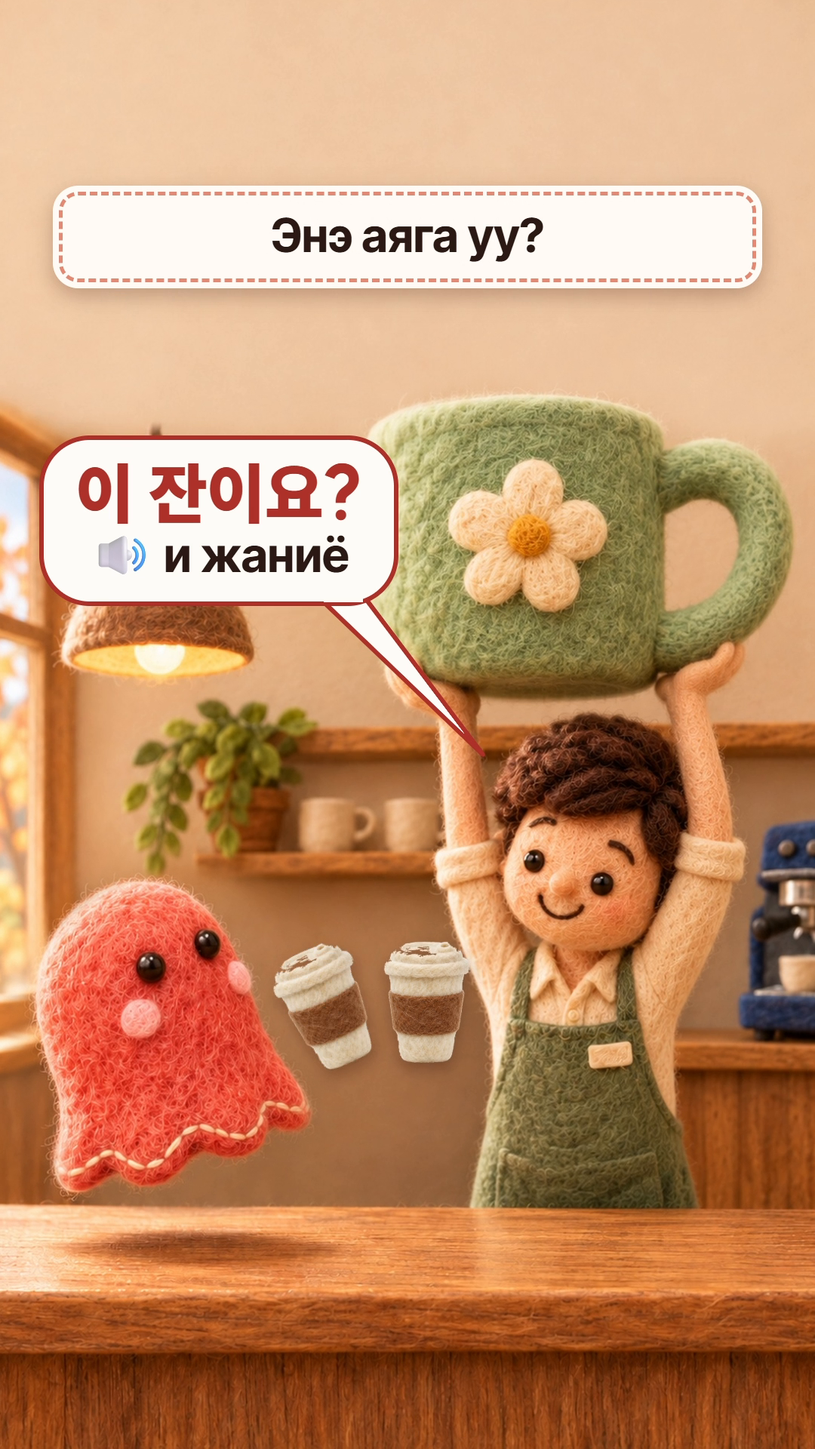
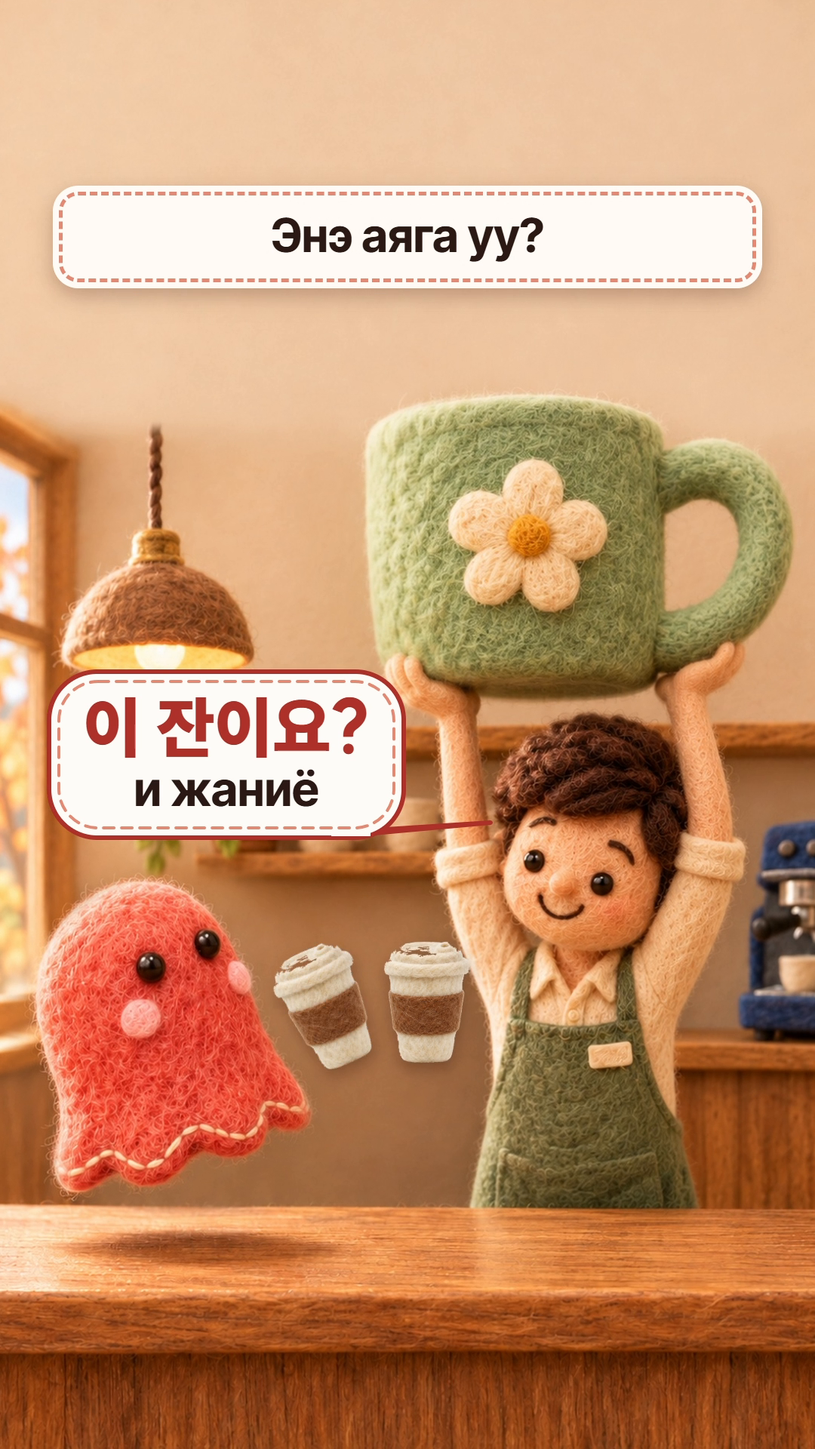
feat(LAB M33 「아메리카노 이 잔 주세요」 · 11-08 15시): 11-12(목) 몽골 편 완성(관문 못 넘음) · 작업실 등록 — 장면 심사 v2 통과 · 이해 4·3·4·4 · 넷 다 달라 보임 · 몽골어 세 겹(Fable 그대로 올림) · 올리기 전 검사 고칠 것 0 · 아르곤 맹검 못 받음(보낸 글 사라짐) → Fable 대체 v10 기각 없음

Changed region(s): [[0.0306, 0.2812, 0.5806, 0.5938]]

diff --git a/docs/마케팅/LAB_이잔주세요_mn_20261108/remotion/src/m33/Film.tsx b/docs/마케팅/LAB_이잔주세요_mn_20261108/remotion/src/m33/Film.tsx
@@ -110,7 +110,7 @@ const Think: React.FC<{ t: number }> = ({ t }) => {
       </svg>
       <div style={{ position: 'absolute', left: 820, top: 540, transform: 'translate(-50%, -50%)', background: C.cream, borderRadius: 80, padding: '18px 44px 22px', border: `6px dashed ${C.shade}`, display: 'flex', flexDirection: 'column', alignItems: 'center', boxShadow: '0 10px 24px rgba(50,20,10,0.3)' }}>
         <span style={{ fontFamily: KO, fontWeight: 900, fontSize: 84, lineHeight: 1.05, color: C.shade, whiteSpace: 'nowrap' }}>{SAY.think.ko}</span>
-        <span style={{ fontFamily: MN, fontWeight: 700, fontSize: 58, lineHeight: 1.15, color: C.brown, whiteSpace: 'nowrap' }}>🔊 {SAY.think.read}</span>
+        <span style={{ fontFamily: MN, fontWeight: 700, fontSize: 58, lineHeight: 1.15, color: C.brown, whiteSpace: 'nowrap' }}>{SAY.think.read}</span>
       </div>
     </div>
   );
@@ -160,6 +160,8 @@ const Bubble: React.FC<{ t: number; from: number; until: number; x: number; y: n
         <path d={`M ${bx - 30} ${by} L ${tail[0]} ${tail[1]} L ${bx + 30} ${by} Z`} fill={C.cream} stroke={C.shade} strokeWidth={6} strokeLinejoin="round" />
         <rect x={left} y={top} width={w} height={h} rx={Math.min(64, h / 2)} fill={C.cream} stroke={C.shade} strokeWidth={6} />
         <rect x={bx - 26} y={by - 8} width={52} height={12} fill={C.cream} />
+        {/* 안쪽 바늘땀 — 위 띠 · 이름표와 같은 천 조각 결(미학 대체 심사 「틀 세 가지가 섞임」) */}
+        <rect x={left + 13} y={top + 13} width={w - 26} height={h - 26} rx={Math.min(52, h / 2 - 13)} fill="none" stroke={C.stitch} strokeWidth={4} strokeDasharray="14 10" strokeLinecap="round" />
       </svg>
       <div style={{ position: 'absolute', left, top, width: w, height: h, display: 'flex', flexDirection: 'column', alignItems: 'center', justifyContent: 'center', textAlign: 'center' }}>
         {/* 한국어 줄마다 바로 아래 키릴 읽기(시험관 둘이 「읽기 글씨가 작아 끝을 못 읽음」 — 크게, 줄마다 짝지어) */}
@@ -169,7 +171,7 @@ const Bubble: React.FC<{ t: number; from: number; until: number; x: number; y: n
           return (
             <React.Fragment key={ko}>
               <div style={{ fontFamily: KO, fontWeight: 900, fontSize: size, lineHeight: 1.04, color: C.shade, whiteSpace: 'pre' }}>{ko}</div>
-              {read ? <div style={{ fontFamily: MN, fontWeight: 700, fontSize: size * 0.72, lineHeight: 1.12, color: C.brown, marginBottom: i < all.length - 1 ? 6 : 0, whiteSpace: 'nowrap' }}>{i === 0 ? '🔊 ' : ''}{read}</div> : null}
+              {read ? <div style={{ fontFamily: MN, fontWeight: 700, fontSize: size * 0.72, lineHeight: 1.12, color: C.brown, marginBottom: i < all.length - 1 ? 6 : 0, whiteSpace: 'nowrap' }}>{read}</div> : null}
             </React.Fragment>
           );
         })}
@@ -211,9 +213,6 @@ const Menu: React.FC<{ t: number }> = ({ t }) => {
   const glow = t >= T.two ? interpolate(t, [T.two, T.two + 0.12, T.two + 0.6], [0, 1, 0.45], clamp) : 0;
   return (
     <>
-      {t >= T.two ? (
-        <div style={{ position: 'absolute', left: 92, top: 1004, width: 900, height: 252, borderRadius: 30, border: `7px dashed ${C.butter}`, boxShadow: `0 0 ${40 * glow}px rgba(255,231,161,${0.8 * glow})`, opacity: fadeIn(t, T.two, 0.12) }} />
-      ) : null}
       {MENU.map((m, i) => {
         const r = ROWS[i];
         if (t < r.at) return null;
@@ -221,8 +220,8 @@ const Menu: React.FC<{ t: number }> = ({ t }) => {
         const hot = i === 1 && t >= T.two;
         return (
           <div key={m.ko} style={{ position: 'absolute', left: r.x, top: r.y, transform: `translateY(-50%) scale(${a * (hot ? 1 + 0.16 * glow : 1)})`, transformOrigin: 'left center' }}>
-            <div style={{ fontFamily: KO, fontWeight: 900, fontSize: 122, lineHeight: 1.0, color: hot ? C.butter : C.cream, whiteSpace: 'nowrap' }}>{m.ko}</div>
-            <div style={{ fontFamily: MN, fontWeight: 700, fontSize: 64, lineHeight: 1.2, color: '#E9D9C4', marginTop: 8, whiteSpace: 'nowrap' }}>🔊 {m.read}</div>
+            <div style={{ fontFamily: KO, fontWeight: 900, fontSize: 122, lineHeight: 1.0, color: hot ? C.butter : C.cream, whiteSpace: 'nowrap', textShadow: hot ? `0 0 ${28 * glow}px rgba(255,231,161,${0.9 * glow})` : 'none' }}>{m.ko}</div>
+            <div style={{ fontFamily: MN, fontWeight: 700, fontSize: 64, lineHeight: 1.2, color: '#E9D9C4', marginTop: 8, whiteSpace: 'nowrap' }}>{m.read}</div>
           </div>
         );
       })}
@@ -301,7 +300,7 @@ export const Film: React.FC<{ scene?: boolean }> = ({ scene = false }) => {
         <Badge t={t} />
         {scene ? null : (
           <>
-            <Tag t={t} at={T.lift + 0.6} until={T.menu} x={300} y={1010} to={[700, 690]} ko={TAG.thisCup.ko} mn={TAG.thisCup.mn} size={88} />
+            <Tag t={t} at={T.freeze + 0.35} until={T.menu} x={300} y={1010} to={[700, 690]} ko={TAG.thisCup.ko} mn={TAG.thisCup.mn} size={88} />
             <Tag t={t} at={T.r2 + 0.55} until={T.close} x={560} y={1790} to={[520, 1575]} ko={TAG.twoCups.ko} mn={TAG.twoCups.mn} size={88} color={C.green} />
             <Menu t={t} />
           </>
@@ -309,7 +308,7 @@ export const Film: React.FC<{ scene?: boolean }> = ({ scene = false }) => {
       </Plate>
       <Think t={t} />
       <Bubble t={t} from={T.m1 - 0.1} until={T.look + 0.5} x={330} y={810} w={620} h={360} tail={[240, 1150]} say={SAY.m1} size={80} />
-      <Bubble t={t} from={T.lift + 0.08} until={T.freeze} x={290} y={690} w={470} h={220} tail={[640, 1000]} say={SAY.r1} size={88} />
+      <Bubble t={t} from={T.lift + 0.08} until={T.freeze} x={300} y={1000} w={470} h={220} tail={[650, 1090]} say={SAY.r1} size={88} />
       {scene ? null : (
         <>
           <Bubble t={t} from={T.retry + 0.05} until={T.r2} x={330} y={810} w={620} h={360} tail={[230, 1150]} say={SAY.m2} size={80} />

diff --git a/docs/마케팅/LAB_이잔주세요_mn_20261108/remotion/src/m33/data.ts b/docs/마케팅/LAB_이잔주세요_mn_20261108/remotion/src/m33/data.ts
@@ -5,14 +5,14 @@ const NL = String.fromCharCode(10);
 export const TEXT = {
   hook: 'Хоёр аяга кофе авъя гэтэл…',
   r1: 'Энэ аяга уу?',
-  heard: `Ажилтан «이» гэдгийг${NL}«хоёр» биш, «энэ» гэж${NL}ойлгочихлоо 😳`,
+  heard: `Ажилтан «이» гэдгийг${NL}«хоёр» биш, «энэ» гэж${NL}ойлгочихлоо!`,
   menu: `Аяга тоолохдоо: 하나 · 둘 · 셋${NL}«잔» гэдэг үгийн өмнө${NL}→ 한 · 두 · 세 болно`,
   two: '2 аяга = «두 잔»',
   m2: `Хоёр аяга американо${NL}өгнө үү!`,
   r2: 'За, хоёр аяга!',
   m3: 'Энэ аягыг бас өгнө үү!',
   r3: 'За, энэ аягыг бас өгье!',
-  end: `Хоёр аяга — «두 잔»,${NL}энэ аяга — «이 잔» 😉`,
+  end: `Хоёр аяга — «두 잔»,${NL}энэ аяга — «이 잔»`,
 };
 export const SAY = {
   m1: { ko: `아메리카노${NL}이 잔 주세요!`, read: `амэрикано${NL}и жан жусэё` },

diff --git a/docs/마케팅/LAB_이잔주세요_mn_20261108/기획.md b/docs/마케팅/LAB_이잔주세요_mn_20261108/기획.md
@@ -1,4 +1,4 @@
-기획 · LAB · @synk.mn(lab-instagram · lab-facebook · lab-tiktok · lab-telegram) · M33 · 2026-11-08 · 슬롯 2026-11-12(목) 21:00 · 오마주 같은분야 · 권위 · **판정은 아래 「판정」**
+기획 · LAB · @synk.mn(lab-instagram · lab-facebook · lab-tiktok · lab-telegram) · M33 · 2026-11-08 · 슬롯 2026-11-12(목) 21:00 · 오마주 같은분야 · 권위 · **완성(관문 못 넘음 — 아래 「판정」)**
 
 # 「아메리카노 이 잔 주세요」 — 셀 때는 한 · 두 · 세
 
@@ -40,7 +40,7 @@
 | 3 | 5.8–15.8 | 숫자표 + 핵심 낱말 「년」 | 4.2 머그 번쩍 · 4.7 종이컵 떨어짐 · 5.9 얼어붙음 · 8.4 메뉴판 한 잔 · 두 잔 · 세 잔 | 「이 잔이요?」(범수) · Энэ аяга уу? · 짜잔 · 툭툭 · 「한 잔, 두 잔, 세 잔.」(소진) · Аяга тоолохдоо: 하나 · 둘 · 셋 / «잔» гэдэг үгийн өмнө → 한 · 두 · 세 болно |
 | 4 | 15.8–17.9 | 몸짓 강조 | 11.6 「두 잔」 줄이 빛나며 그 줄로 다가감 | 2 аяга = «두 잔» · 딩 |
 | 5 | 17.9–25.6 | 숫자표 되짚음 | 13.1 다시 주문 · 15.0 「네, 두 잔이요!」 · 이름표 「두 잔 / 2 аяга」 · 16.9 몽글이 머그를 올려다봄 「이 잔도 주세요!」 · 「-도 / бас」 | 「아메리카노 두 잔 주세요!」 · Хоёр аяга американо өгнө үү! |
-| 6 | 25.6–32.3 | 예문 한 줄 | 18.8 머그 번쩍 한 번 더(바리스타 · 머그 가까이) 「네, 이 잔도요!」 · 21.2 넓게 · 끝 줄 | За, энэ аягыг бас өгье! · Хоёр аяга — «두 잔», энэ аяга — «이 잔» 😉 |
+| 6 | 25.6–32.3 | 예문 한 줄 | 18.8 머그 번쩍 한 번 더(바리스타 · 머그 가까이) 「네, 이 잔도요!」 · 21.2 넓게 · 끝 줄 | За, энэ аягыг бас өгье! · Хоёр аяга — «두 잔», энэ аяга — «이 잔» |
 | 7 | 32.3–33.4 | 끝(팔로우) | 23.7 다가감 · 반짝 | 딩 |
 
 `오마주.json` 「다르게」: 칸 수 · 박자(원본은 진행자 한 컷의 몸짓이 박자, 우리는 말 없는 인형극이라 사건을 장면으로 보여 칸이 는다). 최종본 나란히: 길이 74% · 첫 2초 0 · 0 · 뼈대 끝 자리 맞음 · 원본 박자 다섯이 같은 순서로 0.6초 안(중앙 어긋남 0.1초).
@@ -59,7 +59,7 @@
 - 그림(GPT 이미지 2.5, `굽기.cjs`, 지시문 `판/*.txt`, 참고 `판/참고/` — 몽글 정본 둘 · E3 바리스타): 주문 판을 기준으로 같은 구도의 머그 · 성공, 머그 판에서 굳음 · 끝을 편집으로 구움, 메뉴판 · 종이컵 조각은 따로(종이컵은 흰 바탕에서 구워 `tools/펠트_흰바탕오리기.py`). 굽기 계정 bake3, 일곱 장 33~116초. 머그 판의 작은 입 자국은 바로 아래 털결로 덮은 판(`판/머그_입지움.png`)을 썼다.
 - 영상: `remotion/`(배 편 틀 · node_modules 연결). 글 정본 `src/m33/data.ts`, 시간표 `src/m33/timeline.ts`, 화면 `src/m33/Film.tsx`(장면 심사판은 `m33-scene`). 종이컵 조각이 실제로 떨어져 튀고, 인물은 같은 판을 타원 가면으로 겹쳐 그 자리만 움직인다(몽글 통통 · 바리스타 고개 · 머그 들썩 · 얼음 떨림).
 - 소리: `소리/만들기.py`로 효과음을 직접 만듦. 한국어 줄은 `음성/계획.json`(받아쓰기로 「이」가 들리는지 확인 — Whisper는 몽글의 「이 잔」을 「2잔」으로 적었다). 들뜬 몽글 세 줄이 올리기 전 검사 「목소리 엉킴」(도윤 35% · 기본음 170Hz)에 걸려 감정 · seed를 바꾼 후보(`음성/후보.json`)를 견주고, 엉킴이 절반인 「보통」 판(19 · 14 · 25%, 가운데 기본음 151Hz)으로 바꿨다.
-- 최종본: `remotion/out/m33_v9.mp4` → 음량 마감 → `게시/01-ig-fb-mn/video.mp4`(−14.5 LUFS · −1.5 dBFS) · 10MB 판 8.53MB · 표지 4.75초(머그 번쩍).
+- 최종본: `remotion/out/m33_v10.mp4` → 음량 마감 → `게시/01-ig-fb-mn/video.mp4`(−14.5 LUFS · −1.5 dBFS) · 10MB 판 8.53MB · 표지 4.75초(머그 번쩍). v8 · v9는 마지막 시험 뒤 글자 크기 · 메뉴판 띠, v10은 미학 대체 심사 뒤 짜임(아래 「미학 맹검」).
 
 ## 몽골어 세 겹(화면 글 · 캡션 · 첫 댓글)
 
@@ -77,14 +77,22 @@
 |---|---|---|---|---|---|---|---|---|
 | v2(첫 렌더, 27.4초) | — | 섞임(이 잔 = 2잔으로 거꾸로 섞음) · 같음 · 같음 · 같음 | 4 · 3 · 4 · 4 | 3 · 3 · 3 · 3 | 끝까지 · 6.4~9.4초 · 12.8초 · 끝까지 | 공유 · 저장 · 저장 · 저장 | 달라 · **같아** · 달라 · 달라 | 메뉴판이 수업 같고 김(G · K · opus) · 「?」 뜻(s · h) · 「이」가 둘인지(s · K) · 하나 · 둘 · 셋과 한 · 두 · 세(G) · ✓✕ · 「= 뜻」 꼬리표가 읽씹과 같은 짜임(h) → v3: 메뉴판 6.6 → 4.7초 · 도장 ✗ · ✓ 뺌 · 「두 잔」 줄만 빛남 · 「?」 대신 생각 풍선 「이 잔…?」 · 「2」 대신 «2 аяга» · 이름표 두 줄 · 얼어붙음 띠에 주어 · 메뉴판 띠 하나→한 · 24.6초로 줄임 |
 | v5(24.6초) | 위 + 몽골어 역번역 · Fable 반영 | 같음 · 뭉뚱그림 · 같음 · 같음 | 4 · 3 · 4 · 4 | 3 · 3 · 3 · **4** | 4.9~8.4초 · 끝까지 · 21.2초 · 끝까지 | 저장 · 저장 · 저장 · **둘 다** | 달라 · 같아(천 띠 · 읽기 줄만) · 달라 · 달라 | 말풍선 아래 키릴 읽기가 작음(h · G · K) · 「도」 뜻(h · G) → v6~v7: 읽기를 한국어 줄마다 아래에 크게 · «-도 / бас» 이름표 · 몽글 목소리 보통 · 메뉴판 · 끝 장면 짜임 나눔 |
-| v7 | 위 | 같음 · 뭉뚱그림 · 같음 · (그록 결과 뒤) | 4 · 3 · 4 · ? | 3 · 3 · 3 · ? | 끝까지 · 끝까지 · 21.2초 · ? | 저장 · 저장 · 저장 · ? | 달라 · **달라** · 달라 · ? | 「-도」 딱지 작음(h · G) · 하나→한 까닭(G, v5 K · v2 G 되풀이) → **시험 뒤** v8 딱지 · 메뉴판 읽기 글자 키움, v9 메뉴판 띠에 «잔» гэдэг үгийн өмнө → 한 · 두 · 세 болно(다시 재지 않음 — 다시 시험 두 번 끝) |
+| v7 | 위 | 같음 · 뭉뚱그림(「이 잔과 두 잔을 어떻게 말하는지」) · 같음 · 같음 | 4 · 3 · 4 · 4 | 3 · 3 · 3 · 3 | 끝까지 · 끝까지 · 21.2초(결과 뒤) · 끝까지 | 저장 · 저장 · 저장 · 저장 | **달라 · 달라 · 달라 · 달라** | 「-도」 딱지 작음(h · G) · 하나→한 까닭(G · K, v5 K · v2 G 되풀이) → **시험 뒤** v8 딱지 · 메뉴판 읽기 글자 키움, v9 메뉴판 띠에 «잔» гэдэг үгийн өмнө → 한 · 두 · 세 болно(다시 재지 않음 — 다시 시험 두 번 끝). 혼자 짚은 것: 0.4~4초 「이 잔」이 2인지 이 컵인지 처음엔 모름(s — 4.3초 반전에서 풀리게 짠 자리), 「주세요」 낱말(K), 위 띠 작음(h) |
 
 볼 이유(v2, opus): **이야기 · 4 · 아님** — 「앞에서 틀린 말을 끝에서 맞는 뜻으로 되살리는 고리」, 약한 자리 9.4~16초 메뉴판(이야기가 멈추고 수업) → v3에서 4.7초로 줄이고 도장 · 표시를 뺌.
 
 ## 미학 맹검
 
-(아르곤 결과 뒤 채움)
+대표 프레임 넷(0.9초 첫 2초 · 4.9초 머그 번쩍 · 12.3초 메뉴판 · 22.6초 끝)을 `node tools/미학맹검.js … --편`(아르곤)으로 보냈다. 아르곤은 이날 다른 세션들의 밀린 맹검으로 16:01부터 올리기 잠금을 기다렸다 — 기다리는 동안 같은 지시문(슬롭 점검표 · 유호님 기준을 붙인 `지시_1.md`)을 Fable에게 대신 보였다(07시 회차와 같은 길).
+
+| 판 | 01 첫 2초 | 02 머그 번쩍 | 03 메뉴판 | 04 끝 | 짚은 것 → 고친 것 |
+|---|---|---|---|---|---|
+| v9 · Fable | 고쳐서 냄 6 | **기각 4** | 고쳐서 냄 6 | 고쳐서 냄 7 | 02: 「이 잔이요?」 꼬리가 머그를 가로지르고 「이 잔」 이름표 실선과 엇갈려 도해처럼 · 같은 말이 말풍선과 이름표에 두 번 · 🔊 기본 이모지 / 03: 노란 점선 강조 상자가 슬라이드 같음 / 04: 띠의 😉 → v10: 말풍선을 몽글 위 머그와 안 겹치는 자리로 · 이름표는 말풍선이 사라진 얼어붙음부터 · 🔊 · 😳 · 😉 뺌 · 강조 상자 빼고 글자만 빛남 · 말풍선 안쪽 바늘땀 |
+| v10 · Fable | 고쳐서 냄 5 | 고쳐서 냄 6 | 고쳐서 냄 6 | 고쳐서 냄 7 | 기각 없음. 남은 약점: 떠 있는 종이컵에 그림자가 없음 · 김이 붓질 연기 · 하트 · 반짝이(구운 그림 안 — 다시 구워야 풀림), 글 상자 셋이 납작한 판(LAB 몽골 띠 · 말풍선 틀), 메뉴판 글이 펠트가 아닌 고딕 · 줄마다 시작 자리가 다름(컵 수에 밀림) |
+| v10 · 아르곤 | **못 받음** | | | | 16:01~17:23 다른 세션 맹검들 뒤로 줄을 서 17:23 보냈으나 「보낸 글이 화면에서 사라지고 새 채팅으로 돌아갔다 — 대화가 안 남았을 수 있다」(11-07 8장 묶음과 같은 증상). 다시 읽기 번호표가 줄 6번째(앞 다섯)라 18:10에 멈추고 준비.json 「맹검못함」에 적음. 대표 프레임 · 보낸 기록은 공용 작업본 `.tmp/미학맹검/LAB_이잔주세요_mn_20261108/`(git 밖) — 다음 회차 · 밀린 맹검이 `node tools/아르곤웹.js 읽기 <작업_1.json>` 또는 다시 맹검 |
+
+강점(Fable): 펠트 재질 · 창빛이 한 결 · 거대 머그를 머리 위로 드는 그림 하나로 개그와 뜻이 동시에 읽힘 · 실물 펠트 컵 1 · 2 · 3으로 세는 메뉴판 · 끝 화면이 네 장 가운데 가장 정물다움.
 
 ## 판정
 
-(그록 v7 · 맹검 결과 뒤 채움)
+**완성(관문 못 넘음 — 11-08, 제작 절차 「매일 한 편」 2).** 올릴 판 v10(`게시/01-ig-fb-mn/video.mp4`, 24.6초). 장면 심사는 v2에서 넘었고(멈춤 · 같은 일 · 답 3이 편 끝과 같은 쪽), 마지막 이해 시험 v7은 답 1 s · G · K 한 문장과 같음 · 이해 4 · 3 · 4 · 4 · 넘김은 모두 결과 뒤 · 저장 넷 · 9번 넷 다 「달라 보임」이었다. 못 넘은 것: ④ 둘이 같이 짚은 「-도」 딱지 작음(h · G)과 「하나→한 까닭」(G · K — v2 · v5부터 되풀이)을 시험 뒤 v8(글자 크기) · v9(메뉴판 띠)로 고쳤으나 다시 시험 두 번을 다 써 다시 재지 않음, ① haiku 답 1이 v5 · v7 모두 뭉뚱그림, ⑤ 재미 3 · 3(sonnet · haiku). v10은 그 뒤 미학 대체 심사(Fable v9 기각 1장)로 짜임만 고친 판이다(말 · 순서 같음). 아르곤 미학 맹검은 못 받았다(위 「미학 맹검」 — 「맹검못함」). 올리기 전 검사 고칠 것 0(확인할 것은 준비.json 남은위험). 아르곤 첫 분석도 돌리지 않았다(위 「원본 1:1」). 두 채널 판 없음(이번 회차 두 채널 줄 빈 칸 없음).

diff --git a/docs/마케팅/기획장부/LAB.md b/docs/마케팅/기획장부/LAB.md
@@ -225,6 +225,6 @@
 
 | 번호 | 기획 | 갈래 | 상태 | 편 폴더 | 근거 · 첫 2초 · 댓글 놀이 · 조건 |
 |---|---|---|---|---|---|
-| M33 | 「아메리카노 이 잔 주세요」 — 「이 잔」은 「이 컵」으로 들린다: 셀 때는 한 · 두 · 세(두 잔) | 오마주 같은분야 · 권위 · 근거 A + B | **제작 중(11-08 15시 회차 · 슬롯 11-12(목) 21:00 — 11-12 몽골 칸이 M30 예비로 비어 07시 회차 메모대로 고름 M33부터)** · 고름(11-07 유호님 「순서대로 진행해」) · 순위 1(11-07 — 슬롯 11-14(토) · 네 계정을 통틀어 가장 끝까지 볼 것 · 끝까지 4 · 재미 4 · 저장 4 · 볼 이유 5 · 같아 보임 아니오 · **만든다** · 관문: 첫 2초 몽골어 훅에 「두 잔 시키려고」가 꼭 들어가야 큰 머그 반전이 읽힘, 핵심 칸은 여섯 가운데 가장 잘 읽힘) | [LAB_이잔주세요_mn_20261108](../LAB_이잔주세요_mn_20261108/기획.md) | **무엇으로 이기나:** 한 장면의 임팩트 — 종이컵 둘을 띄운 몽글이 「아메리카노 이 잔 주세요!」 → 점원이 진열대의 커다란 장식 머그 하나를 번쩍 들어 「이 잔이요?」 → 종이컵 둘이 툭 떨어지고 몽글이 굳는다. 끝: 「셀 때는 하나 · 둘 · 셋 → 한 잔 · 두 잔 · 세 잔」(4층 F 편의 「사」를 한 번 되부름). **원본** https://www.youtube.com/shorts/0wKbptXUV1Y · 같은분야 · Korean with Ina 「how to count years in Korean」 1.5만 · 평소의 3.6배 · 10-24 · 34초(몽골 시드 채널) · 댓글 「늘 헷갈린다」 · 「고유어(한 두 세 네)를 써야 한다고 배웠는데?」. **근거 A:** 우리 「4층은 F」(LAB_사층F_mn_20261101) 24시간 인스타 17,932회 · 평소의 132배 · 공유 40 · 저장 22, 틱톡 @synk.mn 댓글 일곱 가운데 넷이 영상의 일 · 이 · 삼 · 사가 아니라 고유어 하나 · 둘 · 셋 · 넷을 키릴로 적음([댓글 기록](../LAB_사층F_mn_20261101/게시/댓글_20261106.md)). **한 문장:** 「물건을 셀 때는 한 · 두 · 세 — '두 잔', '이 잔'은 '이 컵'」(몽골어 판은 만들 때 세 겹 검수). **첫 2초:** `M33_첫2초.jpg` — 펠트 카페 계산대, 종이컵 둘을 띄운 몽글 「아메리카노 이 잔 주세요!」. **핵심 칸** `M33_핵심칸.jpg` — haiku 「카페 직원이 큰 민트색 머그잔을 들어 보이며 '이 잔이요?'라고 묻는 장면」(머그 · 물음은 읽힘, 두 잔을 시키려던 몽글 · 떨어진 종이컵은 안 읽힘 — 관문 지적과 같다). **댓글 놀이:** 「몽골어로는 하나 · 둘을 어떻게 세요?」 꼴 한 줄(문구는 만들 때). **먼저:** 「이 잔」이 실제로 「이 컵」으로 들리는 동음 장면인지 확인(한국어 화자 사실 검수) |
+| M33 | 「아메리카노 이 잔 주세요」 — 「이 잔」은 「이 컵」으로 들린다: 셀 때는 한 · 두 · 세(두 잔) | 오마주 같은분야 · 권위 · 근거 A + B | **완성(관문 못 넘음 — 마지막 이해 시험 v7에서 둘이 같이 짚은 「-도」 딱지 작음 · 「하나→한 까닭」을 시험 뒤 v8 · v9로 고쳐 다시 재지 못함 · haiku 답 1 뭉뚱그림 · 11-08 15시 회차 · 슬롯 11-12(목) 21:00 인스타 · 페북 · 틱톡 @synk.mn · 텔레그램 · 24.6초 · 종이컵 둘을 띄운 몽글이 「아메리카노 이 잔 주세요!」 → 바리스타가 「이 잔…?」 하고 선반의 거대한 민트 머그를 번쩍 「이 잔이요?」 → 종이컵이 툭툭 떨어지고 몽글이 얼어붙음(장면 심사 v2 통과) → 메뉴판 하나 · 둘 · 셋이 「잔」 앞에서 한 · 두 · 세 → 「아메리카노 두 잔 주세요!」 → 일부러 「이 잔도 주세요!」에 머그 번쩍 한 번 더 · 원본 0wKbptXUV1Y 나란히 맞음(다르게 둘) · 이해 s4 · h3 · G4 · K4 · 재미 3 · 3 · 3 · 3 · 넷 다 저장 · 9번 넷 다 달라 보임 · 볼 이유 이야기 · 4 · 아님 · 몽골어 세 겹(Fable 그대로 올림 · 상) · 미학 맹검은 아르곤이 보낸 글이 사라져 못 받음(맹검못함) · Fable 대체 v9 기각 1 → v10 고쳐서 냄 5 · 6 · 6 · 7 · 올리기 전 검사 고칠 것 0 — 편 폴더 기획.md 「판정」)** · 두 채널 판 없음(이번 회차 두 채널 줄 빈 칸 없음 — 11-07 스캔대로 E32 · M33 가운데 하나만 옮긴다) · 고름(11-07 유호님 「순서대로 진행해」) · 순위 1(11-07 — 슬롯 11-14(토) · 네 계정을 통틀어 가장 끝까지 볼 것 · 끝까지 4 · 재미 4 · 저장 4 · 볼 이유 5 · 같아 보임 아니오 · **만든다** · 관문: 첫 2초 몽골어 훅에 「두 잔 시키려고」가 꼭 들어가야 큰 머그 반전이 읽힘, 핵심 칸은 여섯 가운데 가장 잘 읽힘) | [LAB_이잔주세요_mn_20261108](../LAB_이잔주세요_mn_20261108/기획.md) | **무엇으로 이기나:** 한 장면의 임팩트 — 종이컵 둘을 띄운 몽글이 「아메리카노 이 잔 주세요!」 → 점원이 진열대의 커다란 장식 머그 하나를 번쩍 들어 「이 잔이요?」 → 종이컵 둘이 툭 떨어지고 몽글이 굳는다. 끝: 「셀 때는 하나 · 둘 · 셋 → 한 잔 · 두 잔 · 세 잔」(4층 F 편의 「사」를 한 번 되부름). **원본** https://www.youtube.com/shorts/0wKbptXUV1Y · 같은분야 · Korean with Ina 「how to count years in Korean」 1.5만 · 평소의 3.6배 · 10-24 · 34초(몽골 시드 채널) · 댓글 「늘 헷갈린다」 · 「고유어(한 두 세 네)를 써야 한다고 배웠는데?」. **근거 A:** 우리 「4층은 F」(LAB_사층F_mn_20261101) 24시간 인스타 17,932회 · 평소의 132배 · 공유 40 · 저장 22, 틱톡 @synk.mn 댓글 일곱 가운데 넷이 영상의 일 · 이 · 삼 · 사가 아니라 고유어 하나 · 둘 · 셋 · 넷을 키릴로 적음([댓글 기록](../LAB_사층F_mn_20261101/게시/댓글_20261106.md)). **한 문장:** 「물건을 셀 때는 한 · 두 · 세 — '두 잔', '이 잔'은 '이 컵'」(몽골어 판은 만들 때 세 겹 검수). **첫 2초:** `M33_첫2초.jpg` — 펠트 카페 계산대, 종이컵 둘을 띄운 몽글 「아메리카노 이 잔 주세요!」. **핵심 칸** `M33_핵심칸.jpg` — haiku 「카페 직원이 큰 민트색 머그잔을 들어 보이며 '이 잔이요?'라고 묻는 장면」(머그 · 물음은 읽힘, 두 잔을 시키려던 몽글 · 떨어진 종이컵은 안 읽힘 — 관문 지적과 같다). **댓글 놀이:** 「몽골어로는 하나 · 둘을 어떻게 세요?」 꼴 한 줄(문구는 만들 때). **먼저:** 「이 잔」이 실제로 「이 컵」으로 들리는 동음 장면인지 확인(한국어 화자 사실 검수) |
 | E32 | 시계는 숫자를 두 벌 쓴다 — 「세 시 삼십 분」(시는 하나 · 둘 · 셋, 분은 일 · 이 · 삼) | 오마주 같은분야 · 권위 · 근거 B | **고름(11-07 유호님 「순서대로 진행해」)** · 순위 1(11-07 — 슬롯 **11-13(금)**, 관문이 E30과 바꿈 · 끝까지 4 · 재미 3 · 저장 4 · 볼 이유 4 · 같아 보임 아니오 · 조건부 셋: ⑴ 바늘 둘의 「우기기」를 움직임 · 목소리로 두세 박자 — 정지 도표면 죽는다 ⑵ 다툼 순간 바늘 색과 맞춘 두 줄(주황 = hour 하나 · 둘 · 세, 파랑 = minute 일 · 이 · 삼)로 그림이 뜻까지 전하게 ⑶ 끝 3초에 두 번째 시각 하나(예: 10:15 → 「열 시 십오 분」)로 규칙 증명. 동영상 언어는 「영어」) | | **무엇으로 이기나:** 한 장면의 임팩트 — 몽글이 3:30 시계를 보며 배운 대로 「삼 시 삼십 분…?」 → 시곗바늘 둘이 살아나 짧은 바늘은 「세!」, 긴 바늘은 「삼십!」 하고 서로 우긴다 → 몽글 눈이 두 바늘 사이를 오간다. **원본** https://www.youtube.com/shorts/0wKbptXUV1Y · 같은분야 · Korean with Ina 「how to count years in Korean」 1.5만 · 3.6배 · 34초(위 M33과 같은 원본 — 다른 계정). **근거 B:** 같은 주제 튄 편 — DOLWTjEuLRc 「Korean Numbers 1-10 (일 이 삼) Sino-Korean」 3.7만 · 평소의 16.9배 · 11-06(고정 댓글 「다음 편: 고유어 숫자」), TmP5YaUiVlc doci_korean 「Real Korean count like this」 6.4천 · 11-03(작은 채널에서 구독보다 많이), Ina 편 댓글 「늘 헷갈린다」. **한 문장:** "Hours count 하나·둘·셋 (세 시), minutes count 일·이·삼 (삼십 분)." **첫 2초:** `E32_첫2초.jpg` — 「Why "세 시", not "삼 시"?」 + 3:30 시계 앞 갸웃한 몽글 「삼 시 삼십 분…?」. **핵심 칸** `E32_핵심칸.jpg` — haiku 「시계 두 바늘이 '세!' '삼십!'을 외치며 화난 얼굴로 다투고, 아래 분홍 펠트 유령이 놀란다」(다툼은 읽힘, 뜻은 안 읽힘 — 관문 ⑵). **댓글 놀이:** 「What time is it for you right now? Say it in Korean 👇」. **먼저:** 시각 읽기 규칙(시 고유어 · 분 한자어) 사실 확인 |
 | E33 | 「주세요」 = please give me — 물 주세요 → 커피 주세요 → … 주말 주세요 | 오마주 같은분야 · 유입 · 근거 B | 순위 2(11-07 — **다음 주(11-16~22) 칸**, 관문: 같은 주 가게 계산대 콩트 셋째 · 핵심 칸이 E31과 같은 구도 · 끝까지 3 · 재미 4 · 저장 3 · 볼 이유 3 · 같아 보임 부분 · 조건부 셋: ⑴ 첫 2초를 뜻풀이가 아니라 「One word gets you anything in Korea」 꼴 약속으로 ⑵ 쌓임 셋을 같은 계산대 반복 대신 시간대 · 자리를 바꿔 리듬 ⑶ 댓글 놀이는 「What would you 주세요?」만(아이돌 이름 없이)) | | **무엇으로 이기나:** 이야기(쌓임 → 반전) — 낮에 「물 주세요!」 · 「커피 주세요!」로 술술 되던 몽글이 밤 야근 끝에 계산대에 엎어져 「주말 주세요…」 → 점원이 달력을 든 채 굳는다. **원본** https://www.youtube.com/shorts/SOM7l6PAKsk · 같은분야 · Korean Hamin 「Please give me this in Korean」 2.9만 · 평소의 4.2배 · 11-06 · 28초 · 댓글 11 — 위 댓글이 스스로 「___ 주세요」 놀이(「mul han jan」을 배웠다는 댓글 포함, 실존 아이돌 이름 댓글은 우리 쪽에서 쓰지 않는다). **한 문장:** "Say anything + 주세요 — 물 주세요 = water, please." **첫 2초:** `E33_첫2초.jpg` — 「주세요 = please give me」 + 낮 편의점 계산대 「물 주세요!」(관문: 뜻풀이 카드라 약속이 약함). **핵심 칸** `E33_핵심칸.jpg` — haiku 「몽글이가 계산대에 기대어 '주말 주세요…'라고 조르고, 점원은 빨간 동그라미가 그려진 달력을 들고 난처한 얼굴」(같은 일) |

diff --git a/docs/마케팅/기획장부/이해시험_기록.md b/docs/마케팅/기획장부/이해시험_기록.md
@@ -8,6 +8,7 @@
 
 | 날짜 | 브랜드 | 편 | 점수 | 넘긴 자리 · 걸린 까닭 | 다음 |
 |---|---|---|---|---|---|
+| 11-08 | LAB 몽골 | M33 「이 잔 주세요」(펠트 카페 · 머그 번쩍 · 11-12 슬롯) — **완성(관문 못 넘음 — 마지막 시험 뒤 고친 두 자리를 다시 재지 못함), 올림(v9)** · 장면 심사는 v2 멈춤 · 3으로 통과 | 세 판(v2 · v5 · v7): 이해 4 · 3 · 4 · 4 셋 다(s · h · G · K), 재미 3 · 3 · 3 · 3 → 3 · 3 · 3 · 4 → 3 · 3 · 3 · 3, 저장 넷 다(v5 그록 공유까지), 9번 같아(h) → 같아(h, 천 띠만) → **넷 다 달라**, 볼 이유 이야기 · 4 · 아님 | 넘긴 자리는 모두 결과(4.2초 머그 번쩍) 뒤. v2에서 메뉴판이 수업 같고 길다(G · K · opus) · 「?」 뜻(s · h) · ✓✕ · 「= 뜻」 꼬리표가 읽씹과 같은 짜임(h) → 메뉴판 6.6 → 4.7초 · ✓✕ 뺌 · 생각 풍선. v5에서 키릴 읽기 작음(h · G · K) · 「도」(h · G) → 줄마다 크게 · «-도 / бас». v7에서 「-도」 딱지 작음(h · G) · 하나→한 까닭(G · K, v2 · v5부터 되풀이) → 시험 뒤 v8 · v9로 고침(재지 않음). haiku 답 1은 v5 · v7 뭉뚱그림 | 「숫자가 왜 줄어드나」 같은 규칙 질문은 처음 짤 때 띠 한 줄로 넣는다(세 판 내내 GPT · 그록이 물음). 메뉴판 같은 정리 칸은 4초 안 · ✓✕ 대비 없이 |
 | 11-08 | synkbrief | B32 「질문 다섯 개」(한 장면 먼저 열두째 · 11-12 슬롯) — **관문 못 넘음(보조 ④), 올림(v13)** · 장면 심사는 v3 멈춤 · 3으로 통과 | 세 판(v2 · v6 · v9): 이해 4 · 4 · 4 · 4 셋 다(s · h · G · K), 재미 3 · 3 · 3 · 3 → 3 · 3 · 3 · 2 → 3 · 3 · 2 · 3, 저장 3 · 4 · 4명, 볼 이유 3 · 3 | 같이 짚은 자리가 판마다 남음 — 10~12초 빽빽한 질문 목록(v2 · v6 넷 다 → v7 머리줄만 하나씩 크게), 20~22초 AI 분석 본문 글자(v9 h · G · K), 「객단가」(AI 답의 실제 낱말, h · K), 「같아 보임」(B27과 말 순서 「첫 답 빗나감 → 묻는 법 바꿈 → 숨은 원인」 · 위 큰 글 + 아래 채팅, 판마다 셋). 넘긴 초는 10~12(목록) · 3(GPT, 직장인 시점에 가게 고민이 멂) · 20(채팅 반복). v6 말 파일이 고치기 전 해설이었던 실수(그록 「끝 말이 화면과 어긋남」)는 v9에서 바로잡음 | 실제 채팅 화면을 길게 보이는 편은 글 벽이 넘김 자리가 된다 — 답 화면은 한 줄만 크게 · 나머지는 글 · 블로그로. 「AI 답 빗나감 → 다시 물음」 말 순서는 B27 · B31 · B32가 같아 다음 synkbrief는 다른 순서(결과 먼저 · 사람 장면 끝까지)로 |
 | 11-08 | yuhobuilds | Y38 「배경음 18초」(형식 시험 짝 2 · 옛 형식, 11-12 슬롯) — **관문 못 넘음, 올림(r8)** | 세 판(r3 · r6 · r7): 이해 4 · 2 · 4 · 4 → 4 · 2 · 4 · 4 → 4 · 3 · 4 · 4(s · h · G · K), 재미 2 · 2 · 2 · 2 → 3 · 2 · 3 · 3 → 2 · 2 · 2 · 2, 볼 이유 2 · 2 · 2 | 넘긴 자리는 모두 결과 뒤(8~12초 체크 목록 · 20~26초 반전 설명). 따라 할 방법이 없다(r3 셋) → 「배경음은 끝까지, 듣기도 끝까지」 · 편집 타임라인 · 캡션 3단계로 고친 뒤에도 「무음 검사를 어떻게 붙이나」(r7 셋). 첫 1초 실제 쇼츠 속 「언니 ✕」가 또 다른 실수로 읽힘(셋) → 흐리게. 「같아 보임」은 짝 11-11과 같은 화면 결에서(형식 시험 설계) | 소리로 이기는 장면은 그림 시험관에 덜 잡힌다 — 72시간 숫자로 짝 11-11 진행자 칸과 견준다(11-17 판정). 원인이 「파일이 짧았다」처럼 김이 빠지는 실화는 손해 · 위기를 보이는 장면이 없으면 볼 이유 2에 머문다 |
 | 11-08 | LAB 영어 | E31 「괜찮아요」(붕어빵 · 공원 벤치) + 두 채널 — **완성(관문 못 넘음 — ⑧ haiku 「같아 보임」)** | v8 이해 s5 · h4 · 재미 4 · 3 / v7 이해 s4 · h3 · G4 · K4 · 재미 3 · 4 · 3 · 3, 답 1 매번 넷 다 같음, 볼 이유 이야기 · 3 · 아님. 간체 4 · 3 · 4 / 버마어 4 · 3 · 4 통과 | 넘긴 초는 모두 결과 뒤(v6 s만 4.5초 생각 풍선). 같이 짚은 것: 생각 풍선 「괜찮아요 = okay = YES」가 정답처럼 읽힘(v3 넷 · v6 넷 — 마음만 쓰는 문구로 풀림) · 가까이 잡은 굳은 장면이 「인형이 먹는다」(s · h) · 9번 haiku만 v5~v8 「같아 보임」(머리 띠 · 말풍선 + 영어 뜻 · 끝 정리 = E21) | 누가 짚었나(s · h · G · K)는 기획.md 표. 오해 콩트에서 몽글이 「틀린 뜻」을 글로 적으면 시험관이 그 글을 정답으로 읽는다 — 다음 오해 편은 몽글의 마음(먹고 싶다)만 쓰고 틀린 낱말은 말로만 |

diff --git a/docs/마케팅/LAB_이잔주세요_mn_20261108/시험/v7/답_그록.md b/docs/마케팅/LAB_이잔주세요_mn_20261108/시험/v7/답_그록.md
@@ -1,0 +1,11 @@
+# 그록 시험관 답 · 구독(grok CLI) · 2026-11-08T07:17:40.814Z
+
+1. 아메리카노 두 잔을 시키려다 «이 잔»이라고 해서 점원이 꽃 큰 컵을 집어 들었고, 두 잔은 «두 잔», 이 컵은 «이 잔»이라고 알려 준다.
+2. «아메리카노 두 잔 주세요»라고 두 잔을 말할 수 있다. «이 잔»은 눈앞의 컵을 가리킨다.
+3. 8.4–11.6초 «하나→한 · 둘→두 · 셋→세»는 화살표 앞이 몽골어로 안 나와 모르겠다. 잔 개수로 한·두·세만 1·2·3처럼 보였다. «주세요»(0.5초~)는 낱말은 모르고 문장이 부탁인 것만 알았다. 앞치마 이름표는 작아 못 읽었다.
+4. 끝까지. 맨 위가 몽골어 «…гэтэл»로 끊기고, 6초 근처 큰 컵과 파란 얼굴 때문에 8초 칠판도 봤다.
+5. 4. 실수와 끝 정리 «두 잔 / 이 잔»은 자막으로 한 번에 왔고, 숫자가 왜 모양이 바뀌는지만 반이다.
+6. 3. 컵이 넘어가고 인형이 얼어붙을 때는 웃기지만, 가운데 칠판이 수업이라 친구에게 켜 줄 정도는 아니다.
+7. 계속 봄. 0초 몽골어가 «두 잔 시키려다…»에서 끊기고, 2.5초에 큰 컵 쪽 «이 잔…?»가 보여서.
+8. 저장. 끝 문장 «두 잔 / 이 잔»과 발음이 짧아 주문 전에 다시 보려고 한다.
+9. 달라 보임. 지난1은 빨간 막대에 전화기 글이 반이고, 끝은 답 없이 기다림이다. 지난2는 장소가 바뀌며 1/4·2/4로 말 네 개를 세고, 불꽃 뒤 수락으로 끝난다. 이번은 카운터에서 잘못 말하기, 칠판, 다시 말하기, 큰 컵을 든 정리로 끝난다.
